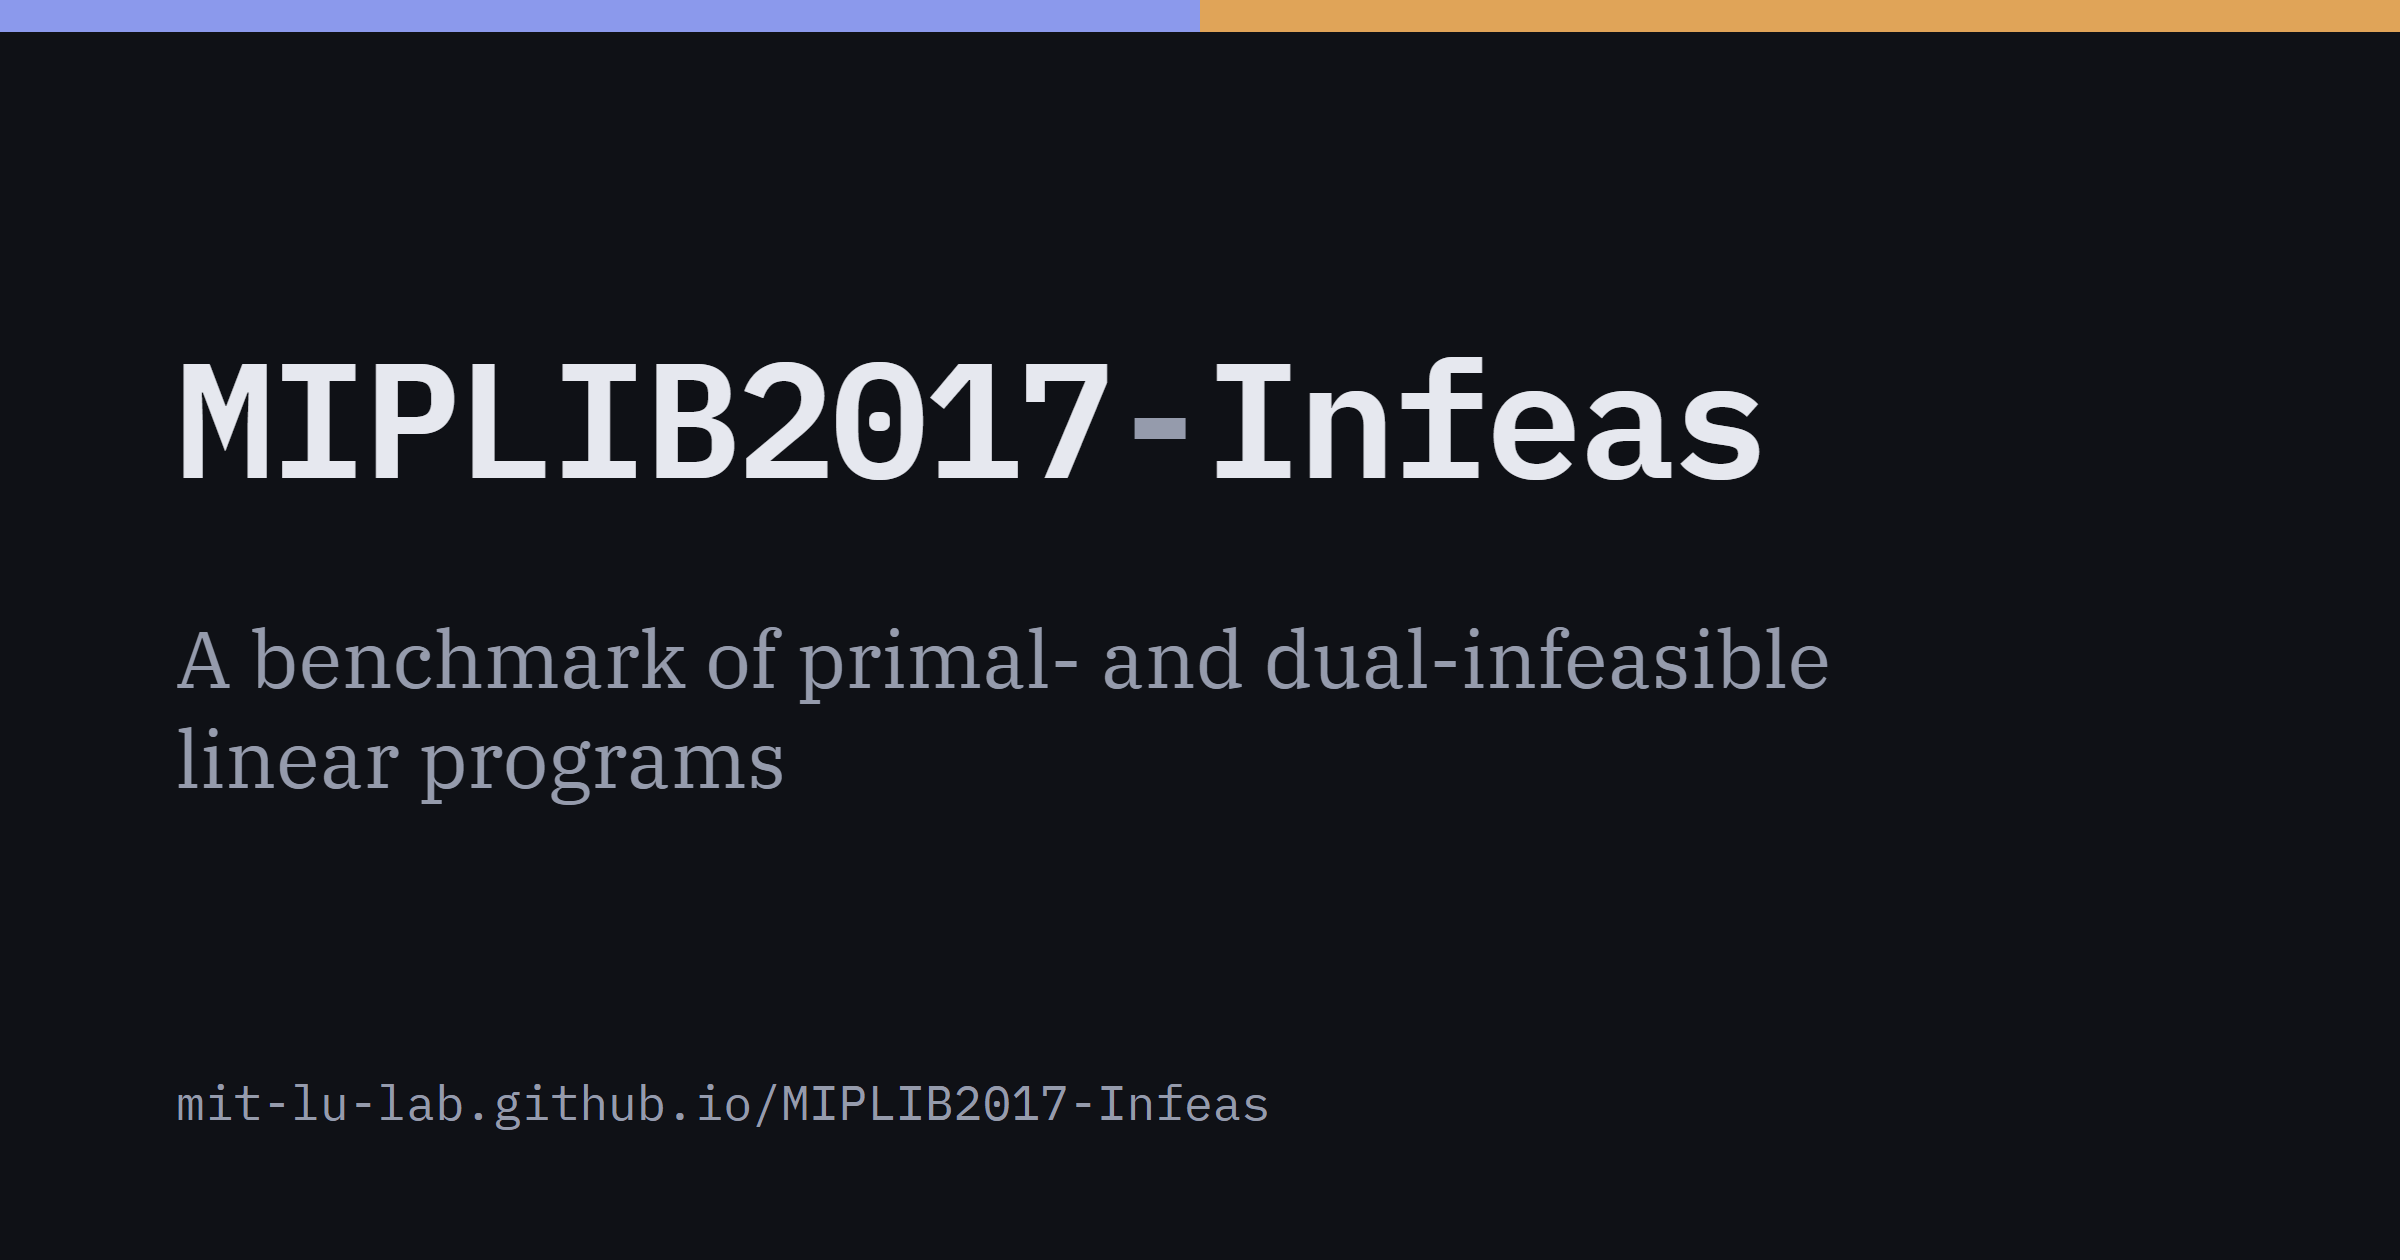
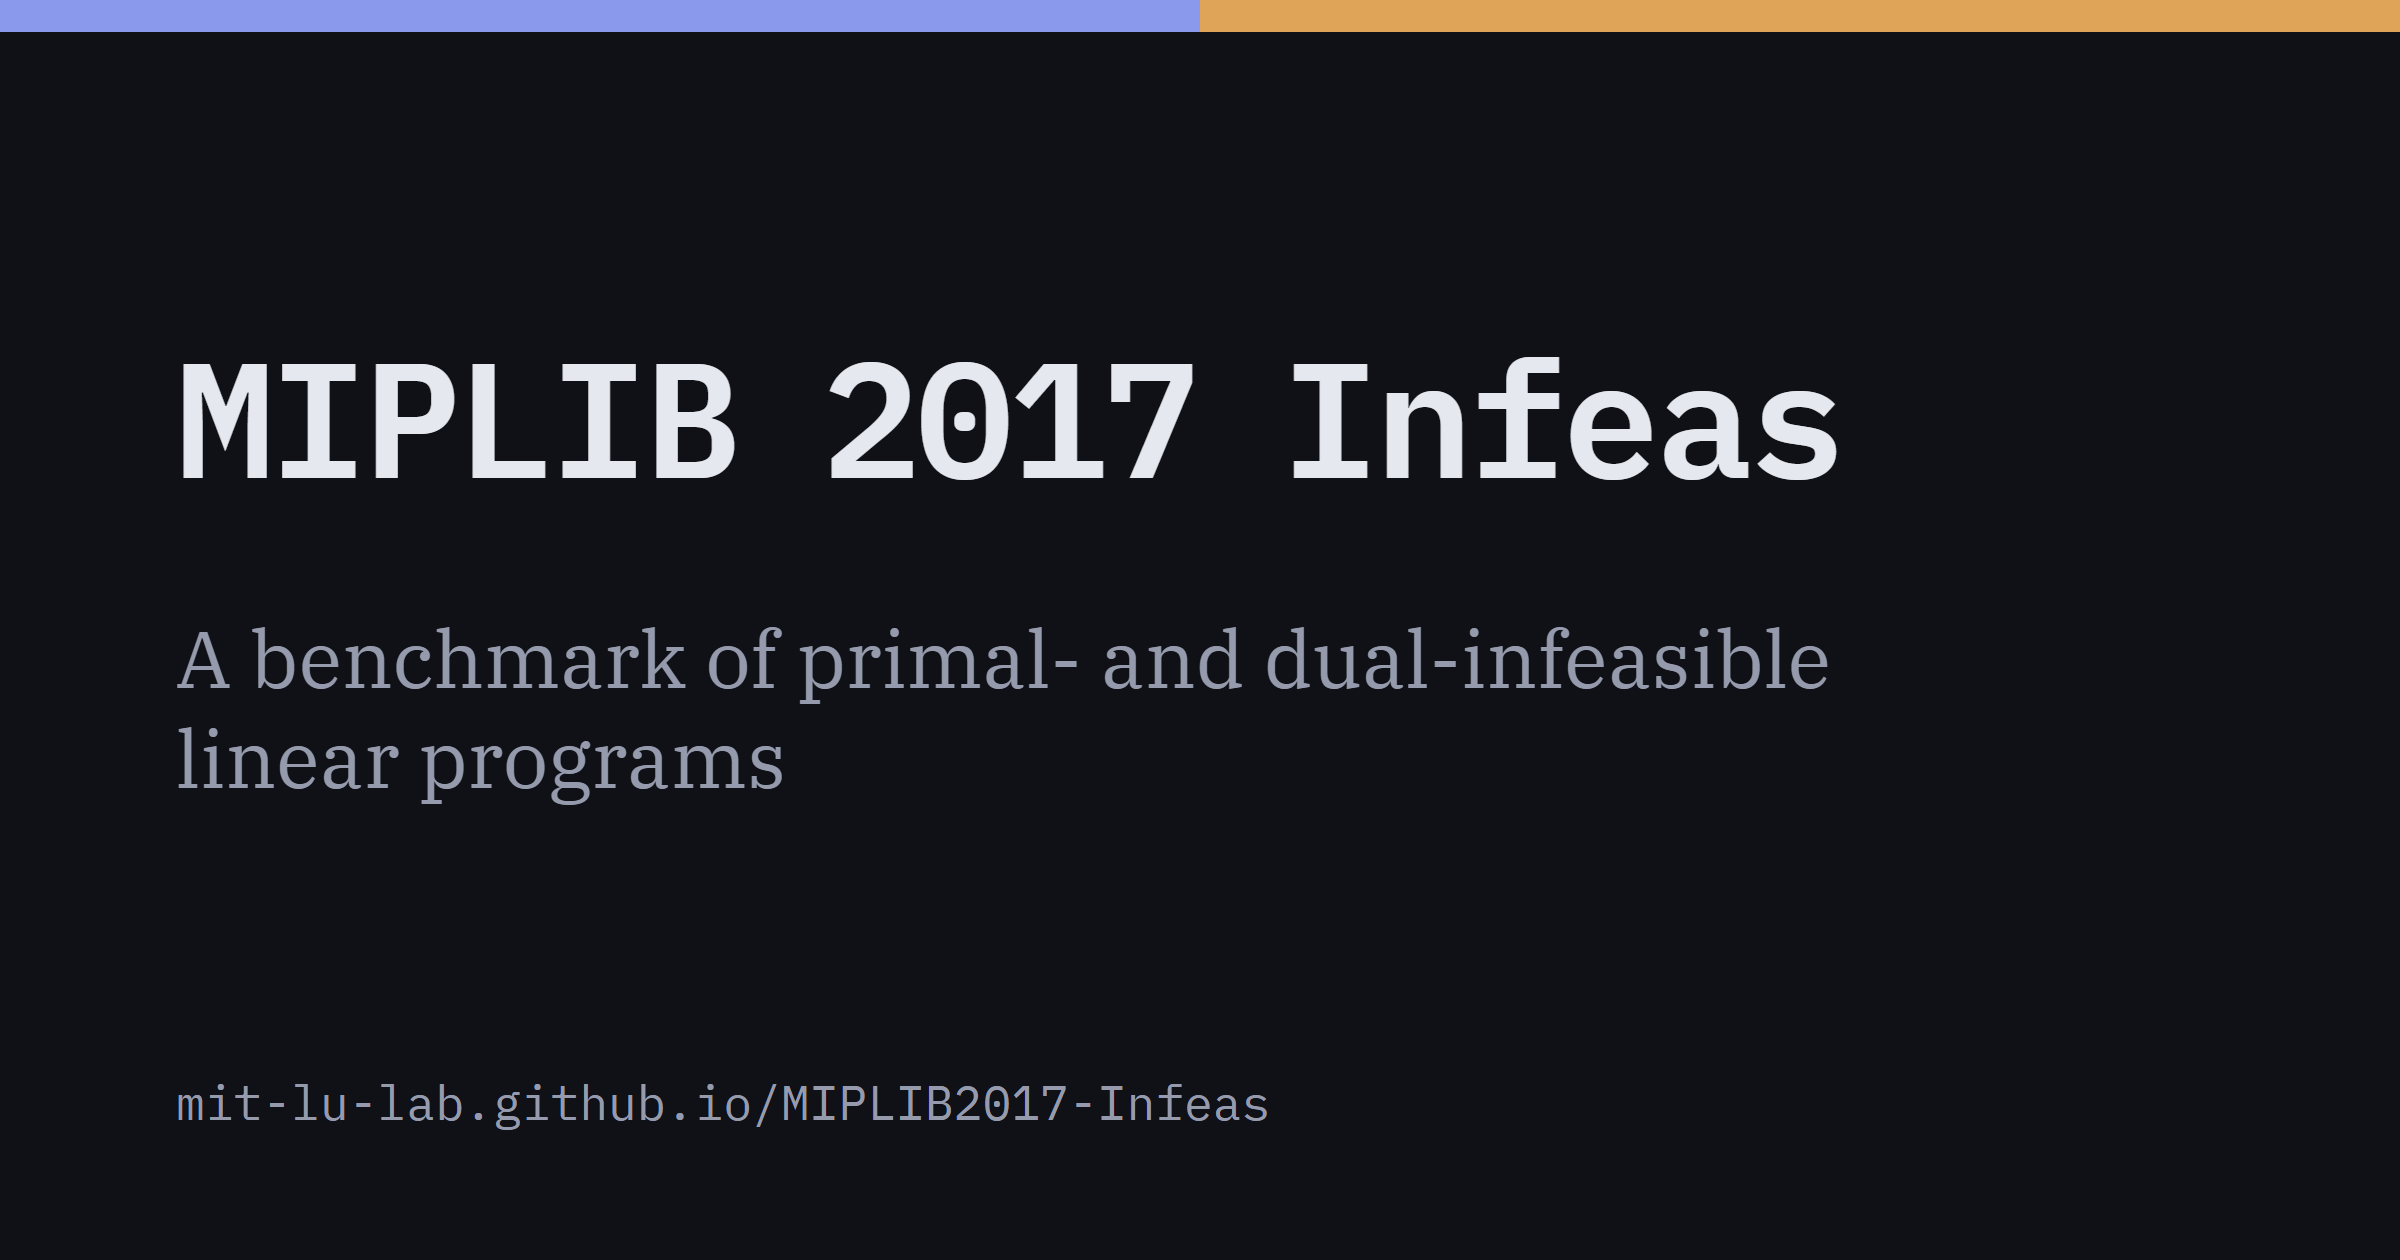
Fix: the wordmark had a name the project no longer has

Changed region(s): [[0.3125, 0.2786, 0.7812, 0.4024]]

diff --git a/website/assets/site.css b/website/assets/site.css
@@ -111,7 +111,6 @@ html{scroll-padding-top:calc(var(--topbar-h) + 16px)}
   height:var(--topbar-h);display:flex;align-items:center;gap:28px;
 }
 .wordmark{font-family:var(--f-mono);font-weight:600;font-size:14px;letter-spacing:.02em;text-decoration:none;white-space:nowrap}
-.wordmark .dash{color:var(--muted)}
 nav.top{display:flex;gap:2px;margin-left:auto;flex-wrap:wrap;min-width:0}
 nav.top a{
   font-size:13.5px;color:var(--muted);text-decoration:none;
@@ -179,7 +178,6 @@ main.narrow{--measure:none;--page:900px}
 .section > h2{font-size:24px;margin-bottom:6px}
 .section > .eyebrow{margin-bottom:10px}
 
-/* file cards */
 /* The collection's portrait, in one file per medium: the screen gets the dark
    figure the rest of the site is drawn in, paper gets the light one, for the
    same reason the palette above keeps a light set for print. */
@@ -194,6 +192,7 @@ main.narrow{--measure:none;--page:900px}
   .figure .on-paper{display:block}
 }
 
+/* file cards */
 .files{display:grid;grid-template-columns:repeat(auto-fit,minmax(min(100%,240px),1fr));gap:16px;margin-top:18px}
 .file{padding:16px 18px;min-width:0}
 .file .fn{font-family:var(--f-mono);font-size:12.5px;color:var(--view);margin-bottom:9px;overflow-wrap:anywhere}

diff --git a/website/render/templates/base.html b/website/render/templates/base.html
@@ -22,7 +22,7 @@
 <a class="skip-link" href="#main-content">Skip to main content</a>
 <header class="topbar">
   <div class="topbar-inner">
-    <a class="wordmark" href="{{ root_href }}">MIPLIB<span class="dash">-</span>Infeas</a>
+    <a class="wordmark" href="{{ root_href }}">{{ site_name }}</a>
     <nav class="top" aria-label="Primary navigation">
       {% for item in nav %}
       <a href="{{ item.href }}"{% if item.current %} aria-current="page"{% endif %}{% if item.short %} aria-label="{{ item.label }}"{% endif %}>{% if item.short %}<span class="nav-full">{{ item.label }}</span><span class="nav-short">{{ item.short }}</span>{% else %}{{ item.label }}{% endif %}</a>

diff --git a/website/render/templates/overview.html b/website/render/templates/overview.html
@@ -44,7 +44,7 @@
   <h2>How to cite</h2>
   <div class="cite">@misc{miplib2017_infeas,<br>
     &nbsp;&nbsp;author&nbsp;&nbsp;&nbsp;&nbsp;&nbsp;&nbsp;&nbsp;= {Haihao Lu and Bo Tang},<br>
-    &nbsp;&nbsp;title&nbsp;&nbsp;&nbsp;&nbsp;&nbsp;&nbsp;&nbsp;&nbsp;= {MIPLIB2017-Infeas: Primal- and Dual-Infeasible Linear Programs from MIPLIB 2017},<br>
+    &nbsp;&nbsp;title&nbsp;&nbsp;&nbsp;&nbsp;&nbsp;&nbsp;&nbsp;&nbsp;= {{ '{' ~ citation_title ~ '}' }},<br>
     &nbsp;&nbsp;howpublished = &#123;\url&#123;{{ citation_url }}&#125;&#125;,<br>
     &nbsp;&nbsp;year&nbsp;&nbsp;&nbsp;&nbsp;&nbsp;&nbsp;&nbsp;&nbsp; = {2026}<br>}</div>
   {{ miplib_citation("cite-note") }}

diff --git a/tests/test_render_overview.py b/tests/test_render_overview.py
@@ -128,6 +128,22 @@ def test_overview_says_the_files_are_pure_lps(index):
     assert "integrality dropped" in text
 
 
+def test_the_wordmark_is_the_collection_name(shell):
+    """A rename left it behind once, showing a name the project no longer had,
+    and nothing on the page or in the suite said so."""
+    html = shell(active="overview", page_rel="index.html")
+    assert f'<a class="wordmark" href="./">{NAME}</a>' in html
+
+
+def test_the_citation_title_leads_with_the_collection_name(index):
+    """The name a reader sees and the name they would cite are one string."""
+    samples = load_collection(index)
+    citation = re.search(
+        r'<div class="cite">(.*?)</div>', V.render_overview(collection_totals(samples)), re.S
+    ).group(1)
+    assert f"title{'&nbsp;' * 8}= {{{NAME}:" in citation
+
+
 def test_overview_ships_the_figure_for_both_media(index):
     """One figure per medium, each with the same description.
 

diff --git a/scripts/make_og_image.py b/scripts/make_og_image.py
@@ -62,7 +62,6 @@ TEMPLATE = """<!doctype html>
            gap:30px;padding:0 88px}}
   .og-name{{font-family:var(--f-mono);font-weight:600;font-size:82px;
            letter-spacing:-.03em;color:var(--ink)}}
-  .og-name .dash{{color:var(--muted)}}
   .og-tagline{{font-family:var(--f-serif);font-size:40px;line-height:1.25;
               color:var(--muted);max-width:940px;margin:0}}
   .og-foot{{font-family:var(--f-mono);font-size:24px;color:var(--muted);
@@ -134,12 +133,11 @@ class _DevTools:
 
 def _card_html() -> str:
     host = content.PUBLIC_SITE_URL.split("//", 1)[-1].rstrip("/")
-    name = content.NAME.replace("-", '<span class="dash">-</span>')
     return TEMPLATE.format(
         css=assets.CSS_NAME,
         width=WIDTH,
         height=HEIGHT,
-        name=name,
+        name=content.NAME,
         tagline=content.TAGLINE,
         host=host,
     )

diff --git a/website/content.py b/website/content.py
@@ -52,7 +52,13 @@ def fmt_bytes(n: int) -> str:
 # to it rather than leaving it to whoever writes the next one.
 META_LIMIT = 160
 
-NAME = "MIPLIB2017-Infeas"
+# What the collection is called, everywhere a person or a catalogue reads it:
+# the wordmark, the headings, the citation, the JSON indexes. The compact form
+# stays where a name has to survive being typed or resolved rather than read,
+# which is the repository, the URLs, the published filenames, and the dataset
+# identifier the release manifest pins.
+NAME = "MIPLIB 2017 Infeas"
+CITATION_TITLE = f"{NAME}: Primal- and Dual-Infeasible Linear Programs from MIPLIB 2017"
 PUBLIC_SITE_URL = "https://mit-lu-lab.github.io/MIPLIB2017-Infeas/"
 SIDECAR_SCHEMA_PATH = "schema/sidecar/1.0.1/meta.schema.json"
 TAGLINE = "A benchmark of primal- and dual-infeasible linear programs"

diff --git a/website/render/overview.py b/website/render/overview.py
@@ -92,5 +92,6 @@ def render_overview(
             }
             for subset, info in SUBSET_SPECS.items()
         ),
+        citation_title=content.CITATION_TITLE,
         citation_url=site_url or content.PUBLIC_SITE_URL,
     )

diff --git a/README.md b/README.md
@@ -1,4 +1,4 @@
-# MIPLIB2017-Infeas
+# MIPLIB 2017 Infeas
 
 [![Licence: see LICENSE](https://img.shields.io/badge/Licence-see%20LICENSE-lightgrey.svg)](LICENSE)
 
@@ -46,7 +46,7 @@ To script against it, the site publishes the same catalogue as JSON. [`index.jso
 ```bibtex
 @misc{miplib2017_infeas,
   author       = {Haihao Lu and Bo Tang},
-  title        = {MIPLIB2017-Infeas: Primal- and Dual-Infeasible Linear Programs from MIPLIB 2017},
+  title        = {MIPLIB 2017 Infeas: Primal- and Dual-Infeasible Linear Programs from MIPLIB 2017},
   howpublished = {\url{https://mit-lu-lab.github.io/MIPLIB2017-Infeas}},
   year         = {2026}
 }
